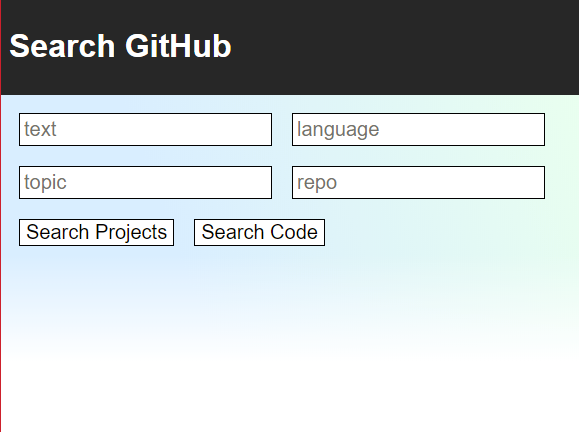
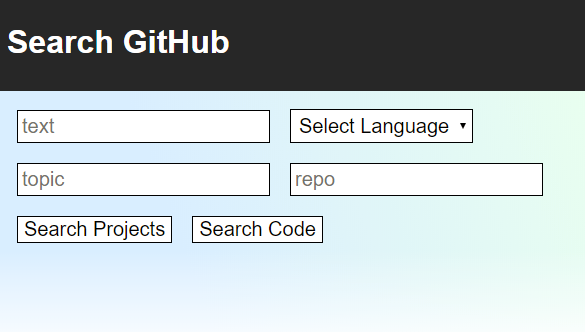
use dropdown for the language search

diff --git a/src/components/Layout.js b/src/components/Layout.js
@@ -41,7 +41,7 @@ class Layout extends React.Component {
         var sQuerry = {
             text : this.refs.searchText.value,
             lang  : this.refs.searchTextLang.value,
-            topic : this.refs.searchTextTopic.value
+            topic : this.refs.searchTextRepo.value
         }
 
         this.props.fetchGitCode(sQuerry)
@@ -63,12 +63,13 @@ class Layout extends React.Component {
             informationText =    <span>
                         <div className="information">Open Issues count : {stat.open_issues_count}</div>
                         <div className="information">watchers : {stat.watchers_count}</div>
+                        <div className="information">Language : {stat.language}</div>
                         <div className="information">Last Updated : <Time value={now} format="MMM DD YYYY" /> </div>
                     </span>
 
         } else{
             informationText = <span>
-                        <div className="information">Path : {stat.url}</div>
+                        <div className="information">Path : {stat.path}</div>
                         <div className="information">Score : {stat.score}</div>
                     </span>
 
@@ -99,9 +100,19 @@ class Layout extends React.Component {
                     {errorMsg}
                     <span ref="projectSearchContainer" >
                         <input ref="searchText" placeholder={this._text.textPlaceHolder} className="search-page__input" type="text" />
-                        <input ref="searchTextLang" placeholder={this._text.languagePlaceHolder} className="search-page__input" type="text" />
+                         <select ref="searchTextLang" className="search-page__input"  type="select" >
+                            <option value="">Select Language</option>
+                            <option value="JavaScript">JavaScript</option>
+                            <option value="PHP">PHP</option>
+                             <option value="Java">Java</option>
+                             <option value="TypeScript">TypeScript</option>
+                             <option value="Ruby">Ruby</option>
+                             <option value="Python">Python</option>
+                             <option value="HTML">HTML</option>
+
+                        </select>
                         <input ref="searchTextTopic" placeholder={this._text.topicPlaceHolder} className="search-page__input" type="text" />
-                        <input ref="searchTextTopic" placeholder={this._text.repoPlaceHolder} className="search-page__input" type="text" />
+                        <input ref="searchTextRepo" placeholder={this._text.repoPlaceHolder} className="search-page__input" type="text" />
                     </span>
                     <div ref="buttonSearchContainer" >
                         <button onClick={this.fetchGitProject.bind(this)} className="search-page__button">Search Projects</button>

diff --git a/src/actions/fetchActions.js b/src/actions/fetchActions.js
@@ -20,7 +20,7 @@ export function fetchGitProject(querry) {
     }
 }
 export function fetchGitCode(querry) {
-    var urlParams = querry.text+"+in:file+repo:"+querry.topic
+    var urlParams = querry.text+"+in:file+language:"+querry.lang+"+repo:"+querry.topic
     return function(dispatch) {
         /*
         to add a loading text

diff --git a/README.md b/README.md
@@ -10,6 +10,7 @@ The App will search for repositories or code under the github.
 ## How to Repositories Search
 - Once the page opens, type in some text on one or the first three text box.
 - ![Alt text](https://github.com/balu980/firstReactApp/blob/master/empty%20page.png?raw=true) 
+- select the language form the dropdown.
 - Click the "Search Projects" button.
 - The results will be displayed like this.
 - ![Alt text](https://github.com/balu980/firstReactApp/blob/master/result%20page.png?raw=true)
@@ -17,6 +18,7 @@ The App will search for repositories or code under the github.
 
 ## How to Repositories Code _(you have to know the repo name)_
 - Once the page opens, type in some text on "text" and "repo" (make sure the repo is correct) text box.
+- select the language form the dropdown.
 - ![Alt text](https://github.com/balu980/firstReactApp/blob/master/code%20search.png?raw=true)
 - Click on the "Search Code" button.
 - The results will be displayed like this.
